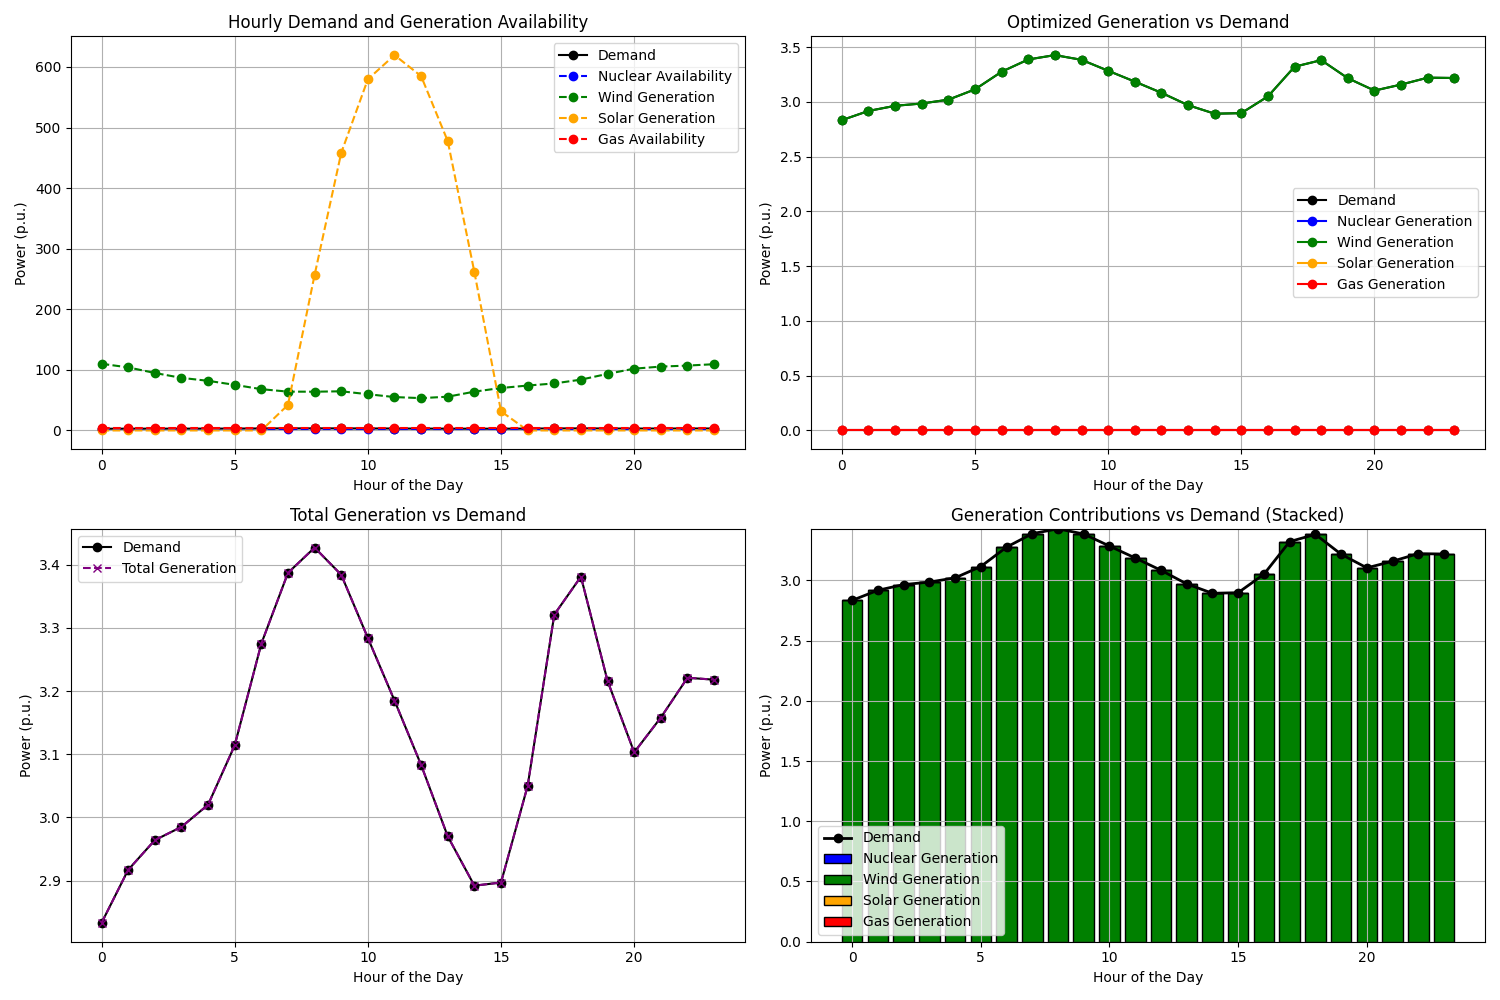
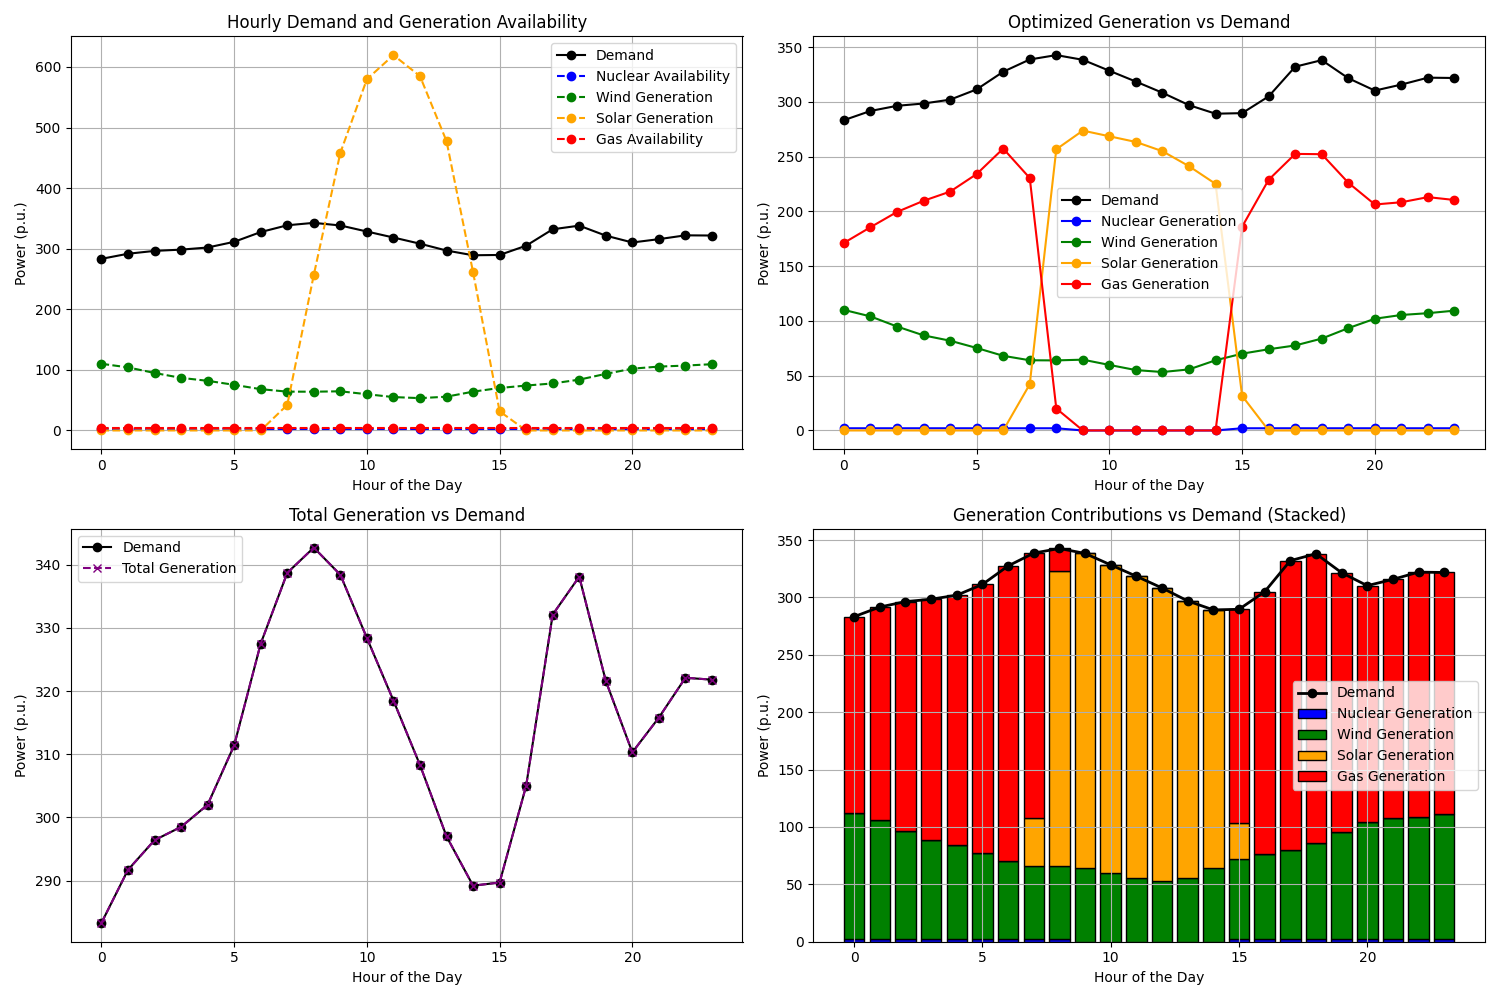
Adapted the network/ grid plot which missed update and corrected the path to results in visualisation.py

diff --git a/scripts/grid-model.py b/scripts/grid-model.py
@@ -28,7 +28,7 @@ def load_filtered_data(wind_file, solar_file, demand_file, selected_date):
     # Extract electricity and demand columns
     wind_gen = wind_filtered['electricity'].values
     solar_gen = solar_filtered['electricity'].values
-    total_demand = demand_filtered['total_demand'].values
+    total_demand = demand_filtered['total_demand'].values * 100
     
     return wind_gen, solar_gen, total_demand
 
@@ -217,33 +217,31 @@ plt.show()
 # ================================
 
 # Grid overview
-G = nx.DiGraph() # Create a directed graph
+G = nx.DiGraph()  # Create a directed graph
+
+# Add nodes
 G.add_node("Nuclear", pos=(0, 2))
 G.add_node("Wind", pos=(2, 3))
 G.add_node("Solar", pos=(2, 1))
 G.add_node("Gas", pos=(4, 2))
-G.add_node("Load 1", pos=(5, 1))
-G.add_node("Load 2", pos=(5, 3))
+G.add_node("Load", pos=(5, 2))  # Single load bus
 
 # Add edges representing transmission lines (reactances)
 G.add_edge("Nuclear", "Wind", weight=x_nuclear_wind)
 G.add_edge("Nuclear", "Solar", weight=x_nuclear_solar)
 G.add_edge("Wind", "Gas", weight=x_wind_gas)
 G.add_edge("Solar", "Gas", weight=x_solar_gas)
-G.add_edge("Nuclear", "Load 1", weight=x_nuclear_load1)
-G.add_edge("Solar", "Load 1", weight=x_solar_load1)
-G.add_edge("Gas", "Load 1", weight=x_gas_load1)
-G.add_edge("Nuclear", "Load 2", weight=x_nuclear_load2)
-G.add_edge("Wind", "Load 2", weight=x_wind_load2)
-G.add_edge("Gas", "Load 2", weight=x_gas_load2)
-
+G.add_edge("Nuclear", "Load", weight=x_nuclear_load)  # Single load
+G.add_edge("Solar", "Load", weight=x_solar_load)
+G.add_edge("Gas", "Load", weight=x_gas_load)
+G.add_edge("Wind", "Load", weight=x_wind_load)
 
 # Get positions for all nodes
-pos = nx.get_node_attributes(G, 'pos') 
+pos = nx.get_node_attributes(G, 'pos')
 
 # Draw the network
 plt.figure(figsize=(8, 6))
-nx.draw(G, pos, with_labels=True, node_size=3000, node_color='lightblue', font_size=12, font_weight='bold', edge_color='gray', width=2) # Draw the network
+nx.draw(G, pos, with_labels=True, node_size=3000, node_color='lightblue', font_size=12, font_weight='bold', edge_color='gray', width=2)
 
 # Draw edge labels (reactances)
 edge_labels = nx.get_edge_attributes(G, 'weight')
@@ -251,4 +249,9 @@ nx.draw_networkx_edge_labels(G, pos, edge_labels={(u, v): f'{d["weight"]} p.u.' 
 
 plt.title("Grid Overview with Reactances (p.u.)")
 plt.grid(False)
+
+# Save the grid plot
+plt.savefig('logs/figures/grid_overview.png')
+
+# Show the plot
 plt.show()

diff --git a/scripts/visualisation.py b/scripts/visualisation.py
@@ -3,7 +3,7 @@ import matplotlib.pyplot as plt
 import numpy as np
 
 # Load the optimization results from the pickle file
-with open('data/optimization_results.pkl', 'rb') as f:
+with open('data/results/optimization_results.pkl', 'rb') as f:
     data = pickle.load(f)
 
 # Extract data
